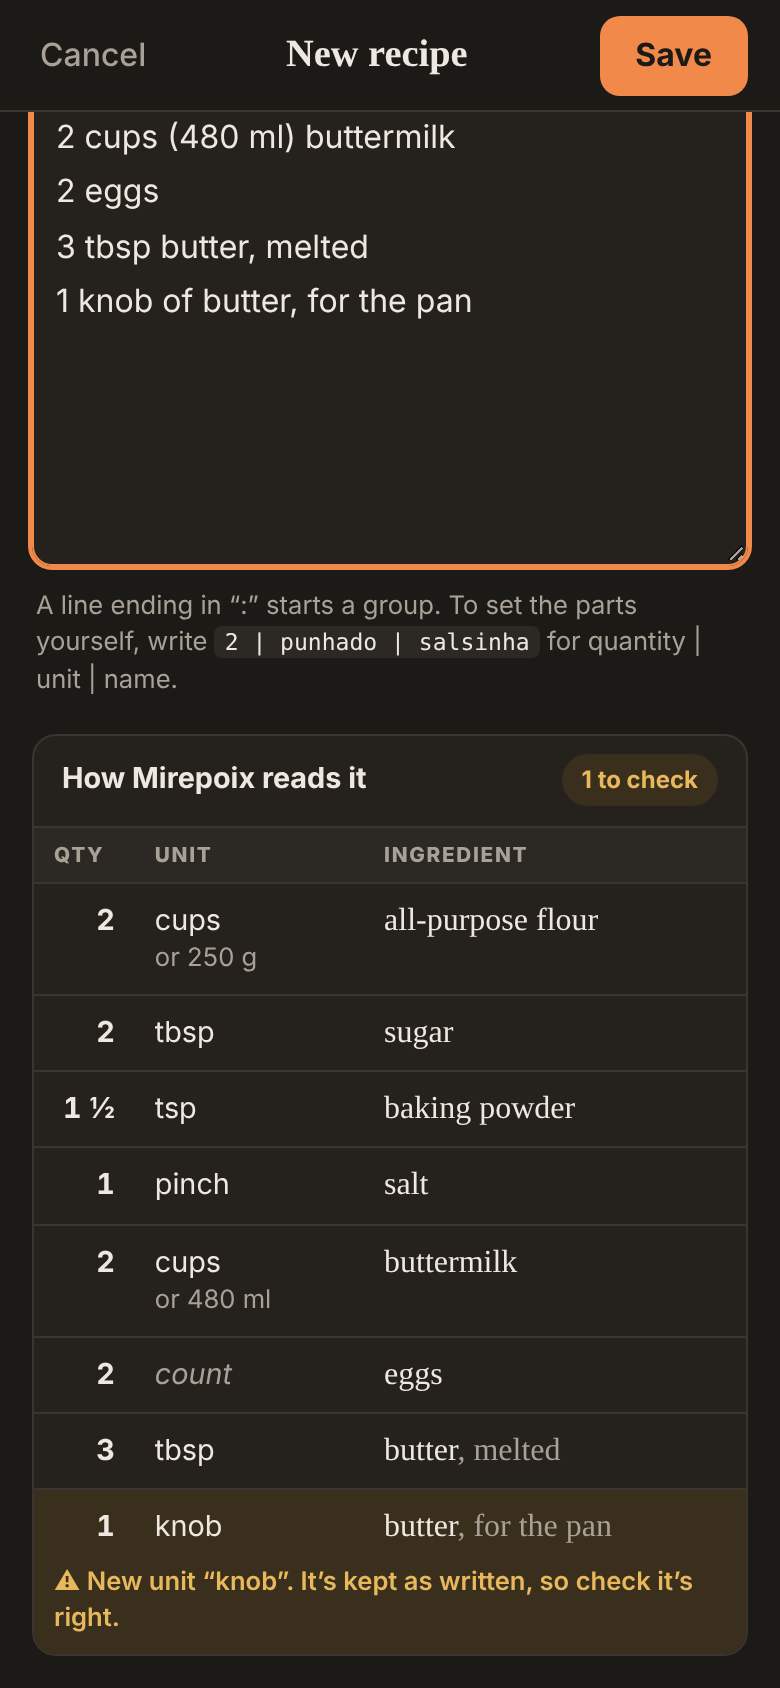
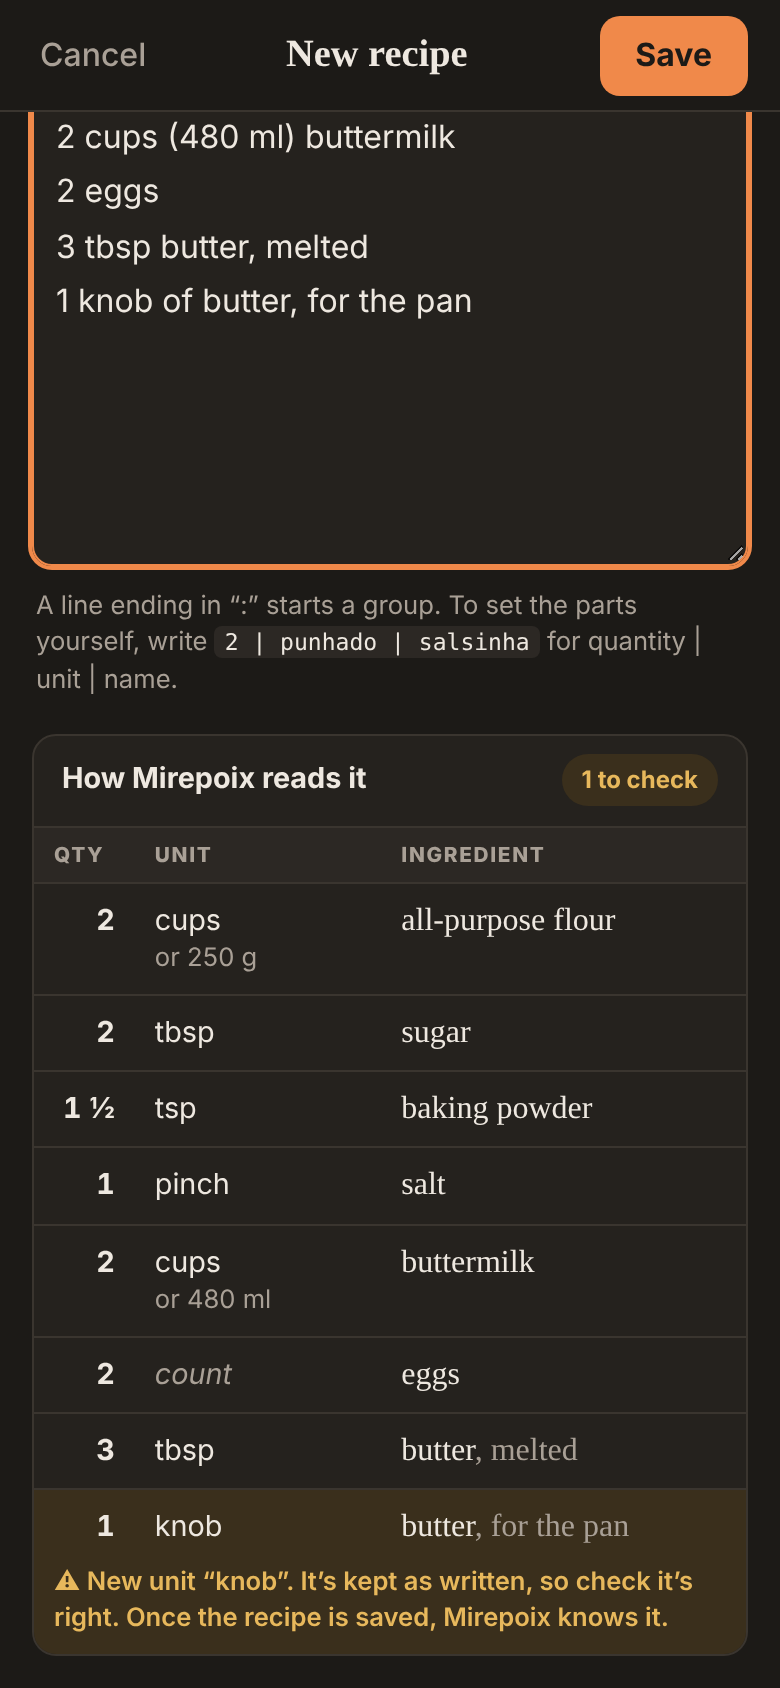
website catches up with R5 (W1.8, D20)
- Timeline: Your measures is Here, Smart paste is Next.
- Capture: the new ways to write equivalents, a unit that becomes yours
  once the recipe is saved, and "2 cups / 437 g unsalted butter" and
  "2 xícaras ou 240 g de farinha de trigo" to try.
- Cook: timers from the steps and scaling join the ticks and the notes.
  The screen staying awake stays in the paragraph above them.
- Yours to keep: Markdown beside the JSON export.
- A new question: printing a recipe or sending it to someone.
- Search and social descriptions mention scaling and timers.
- Screenshots: the tablet's cook mode has a timer running; cook mode,
  the note, the editor's new-unit flag and Keep a copy are taken again.
- Keep a copy's Markdown line reads as one sentence.

Claude-Session: https://claude.ai/code/session_017frVDzxE7cGUMmNc2EnqDt

diff --git a/app/about/index.pt.html b/app/about/index.pt.html
@@ -4,7 +4,7 @@
   <meta charset="utf-8">
   <meta name="viewport" content="width=device-width, initial-scale=1, viewport-fit=cover">
   <title>Mirepoix · Um caderno de receitas particular</title>
-  <meta name="description" content="O Mirepoix é um caderno de receitas particular e grátis, para todos os seus aparelhos. Cole ou digite receitas em português ou em inglês, e cada ingrediente vira quantidade, unidade e nome. Cozinhe com a tela ligada, deixe notas para a próxima vez e sincronize com criptografia de ponta a ponta.">
+  <meta name="description" content="O Mirepoix é um caderno de receitas particular e grátis, para todos os seus aparelhos. Cole ou digite receitas em português ou em inglês, e cada ingrediente vira quantidade, unidade e nome. Cozinhe com a tela ligada, ajuste as quantidades, use timers que vêm dos passos, deixe notas para a próxima vez e sincronize com criptografia de ponta a ponta.">
   <link rel="canonical" href="https://pauloq.com/mirepoix/about/index.pt.html">
   <link rel="alternate" hreflang="en" href="https://pauloq.com/mirepoix/about/">
   <link rel="alternate" hreflang="pt" href="https://pauloq.com/mirepoix/about/index.pt.html">
@@ -13,7 +13,7 @@
   <meta property="og:locale" content="pt_BR">
   <meta property="og:site_name" content="Mirepoix">
   <meta property="og:title" content="Mirepoix · Do caderno para a panela">
-  <meta property="og:description" content="Um caderno de receitas particular e grátis. Cole uma receita e cada ingrediente vira quantidade, unidade e nome. Cozinhe com a tela ligada e sincronize com criptografia de ponta a ponta.">
+  <meta property="og:description" content="Um caderno de receitas particular e grátis. Cole uma receita e cada ingrediente vira quantidade, unidade e nome. Cozinhe com a tela ligada e com timers que vêm dos próprios passos. Sincronize tudo com criptografia de ponta a ponta.">
   <meta property="og:url" content="https://pauloq.com/mirepoix/about/index.pt.html">
   <meta property="og:image" content="https://pauloq.com/mirepoix/icons/social.png">
   <meta property="og:image:width" content="1200">
@@ -151,6 +151,7 @@
               <li><button type="button" data-line="uma pitada de sal" data-lang="pt">uma pitada de sal</button></li>
               <li><button type="button" data-line="2 to 3 cloves garlic, crushed" data-lang="en" lang="en">2 to 3 cloves garlic, crushed</button></li>
               <li><button type="button" data-line="1 lata (400 ml) de leite de coco" data-lang="pt">1 lata (400 ml) de leite de coco</button></li>
+              <li><button type="button" data-line="2 xícaras ou 240 g de farinha de trigo" data-lang="pt">2 xícaras ou 240 g de farinha de trigo</button></li>
               <li><button type="button" data-line="1 tablete de fermento biológico" data-lang="pt">1 tablete de fermento biológico</button></li>
             </ul>
           </div>
@@ -164,11 +165,11 @@
         </li>
         <li>
           <h3>Equivalências bem claras.</h3>
-          <p>“2 xícaras (437 g) de manteiga” é uma quantidade só, escrita de dois jeitos, e aparece como “ou 437 g”. Com balança ou sem.</p>
+          <p>Seja “2 xícaras (437 g)”, “2 xícaras / 437 g” ou “2 xícaras ou 437 g”, é uma quantidade só escrita de dois jeitos, que aparece como “ou 437 g”. Com balança ou sem.</p>
         </li>
         <li>
           <h3>Nada de chute.</h3>
-          <p>Uma unidade que o Mirepoix não conhece fica como você escreveu, marcada para você conferir. E você sempre pode separar as partes do seu jeito.</p>
+          <p>Uma unidade que o Mirepoix não conhece fica como você escreveu e é marcada para você conferir na primeira vez. Salve a receita e ela passa a ser uma unidade sua. E você sempre pode separar as partes do seu jeito.</p>
         </li>
       </ul>
     </section>
@@ -307,8 +308,12 @@
               <span>Ingredientes e passos se marcam com um toque, e o passo da vez fica sempre à vista. As marcações valem só para esta vez e nunca são salvas.</span>
             </li>
             <li>
-              <strong>A tela não apaga</strong>
-              <span>Chega de cutucar a tela com o dedo sujo de farinha. Onde o aparelho permite, a tela fica ligada até você terminar.</span>
+              <strong>Timers que vêm dos passos</strong>
+              <span>“Asse por 40 minutos” vem com um timer. Ajuste antes de começar ou enquanto ele corre, deixe vários rodando ao mesmo tempo e ouça quando um terminar.</span>
+            </li>
+            <li>
+              <strong>Aumente ou diminua</strong>
+              <span>Corte pela metade, dobre ou diga quanto a receita deve render. Todas as quantidades acompanham em frações que dá para medir, enquanto a receita continua como foi escrita.</span>
             </li>
             <li>
               <strong>Uma nota para o seu eu do futuro</strong>
@@ -399,9 +404,10 @@
         <h2 id="yours-title">Suas receitas,<br> <em>Sua cópia.</em></h2>
         <p class="large-copy">Faça um arquivo com todas as receitas, quando quiser. Ele abre sem o Mirepoix, sem o GitHub e sem a sua frase secreta.</p>
         <p>Guarde no seu drive ou no seu e-mail. Importe em qualquer aparelho para trazer tudo de volta, com as notas de cozinha.</p>
+        <p>Para ler, imprimir ou mandar receitas, salve uma ou todas em Markdown, um texto simples que fica bom em qualquer lugar.</p>
         <ul class="facts" aria-label="Com o que você pode contar">
-          <li><strong>JSON</strong> <small>Dá para ler em qualquer lugar</small></li>
-          <li><strong>Offline</strong> <small>Sem precisar de internet</small></li>
+          <li><strong>JSON</strong> <small>Traz tudo de volta</small></li>
+          <li><strong>Markdown</strong> <small>Dá para ler em qualquer lugar</small></li>
           <li><strong>Sem anúncios</strong> <small>Nem agora, nem depois</small></li>
         </ul>
         <div class="consent-note">
@@ -438,15 +444,15 @@
           <h3>Modo cozinha</h3>
           <p>Letra grande, tela ligada, marcações, notas para a próxima vez e etiquetas.</p>
         </li>
+        <li class="here">
+          <span class="chip ok">Já tem</span>
+          <h3>Suas medidas</h3>
+          <p>Mais jeitos de escrever equivalências, unidades suas como “tablete”, receitas em dobro ou pela metade, timers no modo cozinha e cópias em Markdown.</p>
+        </li>
         <li class="next">
           <span class="chip alert">Próxima</span>
           <h3>Colar esperto</h3>
-          <p>Cole uma receita inteira de uma vez, e o Mirepoix acha as seções.</p>
-        </li>
-        <li class="later">
-          <span class="chip neutral">Depois</span>
-          <h3>Suas medidas</h3>
-          <p>Mais jeitos de escrever equivalências, e unidades suas, como “copo americano”.</p>
+          <p>Cole uma receita inteira de uma vez e o Mirepoix acha as seções.</p>
         </li>
       </ol>
     </section>
@@ -487,6 +493,10 @@
         <li>
           <h3>Em que línguas ele fala?</h3>
           <p>As telas estão em português do Brasil e em inglês. Cada receita tem a sua própria língua para ler os ingredientes, então “2 xícaras de farinha” e “2 cups flour” funcionam, no mesmo caderno.</p>
+        </li>
+        <li>
+          <h3>Dá para imprimir uma receita ou mandar para alguém?</h3>
+          <p>Dá. No fim de cada receita, Salvar em Markdown faz um arquivo de texto simples que fica bom em qualquer lugar, pronto para imprimir, mandar por e-mail ou colar numa mensagem. Guardar uma cópia faz o mesmo com todas as receitas de uma vez.</p>
         </li>
       </ul>
     </section>

diff --git a/app/about/index.html b/app/about/index.html
@@ -4,7 +4,7 @@
   <meta charset="utf-8">
   <meta name="viewport" content="width=device-width, initial-scale=1, viewport-fit=cover">
   <title>Mirepoix · A private recipe box</title>
-  <meta name="description" content="Mirepoix is a free, private recipe box for every device. Paste or type recipes in English or Portuguese, and every ingredient becomes quantity, unit and name. Cook with the screen on, leave notes for next time, and sync end-to-end encrypted.">
+  <meta name="description" content="Mirepoix is a free, private recipe box for every device. Paste or type recipes in English or Portuguese, and every ingredient becomes quantity, unit and name. Cook with the screen on, scale a recipe, set timers from its steps, leave notes for next time, and sync end-to-end encrypted.">
   <link rel="canonical" href="https://pauloq.com/mirepoix/about/">
   <link rel="alternate" hreflang="en" href="https://pauloq.com/mirepoix/about/">
   <link rel="alternate" hreflang="pt" href="https://pauloq.com/mirepoix/about/index.pt.html">
@@ -12,7 +12,7 @@
   <meta property="og:type" content="website">
   <meta property="og:site_name" content="Mirepoix">
   <meta property="og:title" content="Mirepoix · From the page to the pan">
-  <meta property="og:description" content="A free, private recipe box. Paste a recipe and every ingredient becomes quantity, unit and name. Cook with the screen on, and sync end-to-end encrypted.">
+  <meta property="og:description" content="A free, private recipe box. Paste a recipe and every ingredient becomes quantity, unit and name. Cook with the screen on and timers from the steps. Sync it all end-to-end encrypted.">
   <meta property="og:url" content="https://pauloq.com/mirepoix/about/">
   <meta property="og:image" content="https://pauloq.com/mirepoix/icons/social.png">
   <meta property="og:image:width" content="1200">
@@ -150,6 +150,7 @@
               <li><button type="button" data-line="2 to 3 cloves garlic, crushed" data-lang="en">2 to 3 cloves garlic, crushed</button></li>
               <li><button type="button" data-line="sal a gosto" data-lang="pt" lang="pt">sal a gosto</button></li>
               <li><button type="button" data-line="1 can (400 ml) coconut milk" data-lang="en">1 can (400 ml) coconut milk</button></li>
+              <li><button type="button" data-line="2 cups / 437 g unsalted butter" data-lang="en">2 cups / 437 g unsalted butter</button></li>
               <li><button type="button" data-line="1 tablete de fermento biológico" data-lang="pt" lang="pt">1 tablete de fermento biológico</button></li>
             </ul>
           </div>
@@ -163,11 +164,11 @@
         </li>
         <li>
           <h3>Equivalents made clear.</h3>
-          <p>“2 cups (437 g) butter” is one amount written two ways, shown as “or 437 g”. Bring out the scale, or don’t.</p>
+          <p>Whether you write “2 cups (437 g)”, “2 cups / 437 g” or “2 cups or 437 g”, it’s one amount written two ways and shows as “or 437 g”. Bring out the scale, or don’t.</p>
         </li>
         <li>
           <h3>No guessing.</h3>
-          <p>A unit Mirepoix doesn’t know is kept as you wrote it and marked for you to check. You can always set the parts yourself.</p>
+          <p>A unit Mirepoix doesn’t know is kept as you wrote it and marked for you to check the first time. Save the recipe and it’s one of your units. You can always set the parts yourself.</p>
         </li>
       </ul>
     </section>
@@ -306,8 +307,12 @@
               <span>Ingredients and steps check off with a tap, and the step you’re on stays in view. Ticks are for this cook only and never saved.</span>
             </li>
             <li>
-              <strong>The screen stays awake</strong>
-              <span>No more tapping the screen with a floury knuckle. Where the device allows it, the screen stays on until you’re done.</span>
+              <strong>Timers from the steps</strong>
+              <span>“Bake 10–12 minutes” comes with a timer. Adjust it before you start or while it runs, keep a few going at once and hear when one is done.</span>
+            </li>
+            <li>
+              <strong>Scale it up or down</strong>
+              <span>Halve it, double it or say how many it should make. Every amount follows in fractions you can measure while the recipe itself stays as written.</span>
             </li>
             <li>
               <strong>A note for future you</strong>
@@ -398,9 +403,10 @@
         <h2 id="yours-title">Your recipes,<br> <em>Your copy.</em></h2>
         <p class="large-copy">Make one file with every recipe in it, whenever you like. It opens without Mirepoix, GitHub or your passphrase.</p>
         <p>Keep it in your cloud drive or your email. Import it on any device to bring everything back, cook’s notes included.</p>
+        <p>To read, print or send recipes, save one or all of them as Markdown, plain text that looks good anywhere.</p>
         <ul class="facts" aria-label="What you can count on">
-          <li><strong>JSON</strong> <small>Readable anywhere</small></li>
-          <li><strong>Offline</strong> <small>No connection needed</small></li>
+          <li><strong>JSON</strong> <small>Brings everything back</small></li>
+          <li><strong>Markdown</strong> <small>Reads anywhere</small></li>
           <li><strong>No ads</strong> <small>Not now, not later</small></li>
         </ul>
         <div class="consent-note">
@@ -437,15 +443,15 @@
           <h3>Cook mode</h3>
           <p>Big type, the screen on, ticks, notes for next time, and tags.</p>
         </li>
+        <li class="here">
+          <span class="chip ok">Here</span>
+          <h3>Your measures</h3>
+          <p>More ways to write equivalents, units of your own like “tablete”, recipes doubled or halved, timers in cook mode, and copies in Markdown.</p>
+        </li>
         <li class="next">
           <span class="chip alert">Next</span>
           <h3>Smart paste</h3>
-          <p>Paste a whole recipe in one go, and Mirepoix finds the sections.</p>
-        </li>
-        <li class="later">
-          <span class="chip neutral">Later</span>
-          <h3>Your measures</h3>
-          <p>More ways to write equivalents, and units of your own, like “copo americano”.</p>
+          <p>Paste a whole recipe in one go and Mirepoix finds the sections.</p>
         </li>
       </ol>
     </section>
@@ -486,6 +492,10 @@
         <li>
           <h3>Which languages does it speak?</h3>
           <p>Its screens are in English and Brazilian Portuguese. Each recipe has its own language for reading ingredients, so “2 cups flour” and “2 xícaras de farinha” both work, in the same box.</p>
+        </li>
+        <li>
+          <h3>Can I print a recipe or send it to someone?</h3>
+          <p>Yes. At the end of every recipe, Save as Markdown makes a plain text file that looks good anywhere, ready to print, email or paste into a message. Keep a copy does the same for every recipe at once.</p>
         </li>
       </ul>
     </section>

diff --git a/app/ui/i18n.js b/app/ui/i18n.js
@@ -169,7 +169,7 @@ const en = {
   exportAll: 'Export all recipes',
   saved: (/** @type {string} */ file) => `Saved ${file}. Keep it somewhere safe, like your cloud drive or your email.`,
   asMarkdown: 'As Markdown',
-  markdownText: 'Every recipe in one text file that reads well anywhere: to print, to share, or to keep where you keep your notes. Mirepoix can’t import it back, so keep an export too.',
+  markdownText: 'Every recipe in one text file that reads well anywhere, to print, share or keep with your notes. Mirepoix can’t import it back, so keep an export too.',
   exportMarkdown: 'Export all as Markdown',
   import: 'Import',
   importText: 'Adds the recipes from an export file, made on this device or another one. Nothing here is removed, and a recipe already here is only replaced by a newer version of itself, keeping the cook’s notes from both. Moving Mirepoix to a new address? Export there, import here.',
@@ -440,7 +440,7 @@ const pt = {
   exportAll: 'Exportar todas as receitas',
   saved: (file) => `${file} foi salvo. Guarde num lugar seguro, como na nuvem ou no seu e-mail.`,
   asMarkdown: 'Em Markdown',
-  markdownText: 'Todas as receitas num arquivo de texto fácil de ler em qualquer lugar: para imprimir, compartilhar ou guardar junto das suas anotações. O Mirepoix não consegue importá-lo de volta, então faça também uma exportação.',
+  markdownText: 'Todas as receitas num arquivo de texto fácil de ler em qualquer lugar, para imprimir, compartilhar ou guardar junto das suas anotações. O Mirepoix não consegue importá-lo de volta, então faça também uma exportação.',
   exportMarkdown: 'Exportar tudo em Markdown',
   import: 'Importar',
   importText: 'Adiciona as receitas de um arquivo exportado, feito neste aparelho ou em outro. Nada daqui é apagado, e uma receita que já está aqui só é trocada por uma versão mais nova dela mesma, com as notas de cozinha das duas. Mudando o Mirepoix de endereço? Exporte lá, importe aqui.',

diff --git a/tools/make-screenshots.js b/tools/make-screenshots.js
@@ -157,13 +157,20 @@ async function shoot(page, lang, device, file) {
   await page.locator('h1').waitFor();
   await snap('recipe');
 
-  // Cooking: a few ingredients gathered, and the first step done.
+  // Cooking: a few ingredients gathered, the first step done, and a timer
+  // from the steps running. The clock is fixed, so it shows its whole time.
   await page.goto(`/#/recipes/${encodeURIComponent(featured)}/cook`);
   const ingredients = page.locator('.cook-list:not(.cook-steps) input[type=checkbox]');
   await ingredients.first().waitFor();
   for (const index of [0, 1, 2, 3]) await ingredients.nth(index).check();
   await page.locator('.cook-steps input[type=checkbox]').first().check();
-  await page.evaluate(() => window.scrollTo(0, 0));
+  await page.locator('.timer-chip').first().click();
+  await page.locator('.timer[data-state=ready] .timer-main').click();
+  await page.locator('.timer[data-state=running]').waitFor();
+  await page.evaluate(() => {
+    /** @type {HTMLElement | null} */ (document.activeElement)?.blur();
+    window.scrollTo(0, 0);
+  });
   await snap('cook');
 
   await page.locator('.foot button.pen').click();

diff --git a/TASKBOARD.md b/TASKBOARD.md
@@ -27,9 +27,9 @@ Items have IDs (e.g. `R1.5`) so that commits, tests and decisions can refer to t
 
 ## To-Do
 
-Every item ends with something you can do in the running app (`npm run dev`), not just new code.
+(nothing right now)
 
-- **W1.8 The website catches up with R5.** "Your measures" moves from Coming to what Mirepoix does, with scaling, timers and Markdown, in both pages, and screenshots of cook mode scaled and with a timer (`npm run screenshots`). The "Try a line" flag already speaks the new words (D21). Open http://localhost:5173/about/.
+Every item ends with something you can do in the running app (`npm run dev`), not just new code.
 
 ## In Progress
 
@@ -40,3 +40,4 @@ Every item ends with something you can do in the running app (`npm run dev`), no
 - **R5.3 Scale while cooking.** In cook mode, tap ×2, or type how many it makes: every amount and Makes change, the ticks stay, and Done brings back ×1.
 - **R5.4 Recipes as Markdown.** At the end of a recipe, Save as Markdown; on Keep a copy, Export all as Markdown. Paste a section of the file back into the editor and it reads the same.
 - **R5.5 Timers from steps.** In cook mode, a step with "Bake 10–12 minutes" has a timer button. Tap it, adjust with − and +, Start, Pause; at zero it beeps. Done asks first while a timer is set.
+- **W1.8 The website catches up with R5 (D20).** Your measures is Here on the timeline and Smart paste is Next. Capture shows the new ways to write equivalents and how a unit becomes yours. Cook gains timers and scaling while Yours to keep gains Markdown. A new question covers printing or sending a recipe, and the tablet's cook mode shows a timer running. Open http://localhost:5173/about/ with `npm run dev`.
